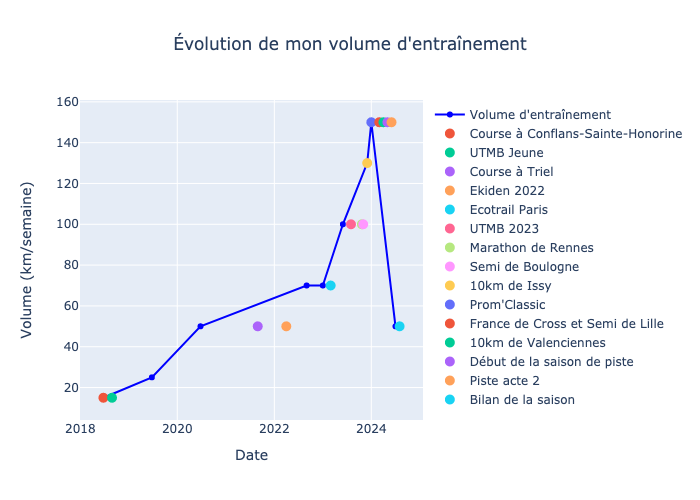
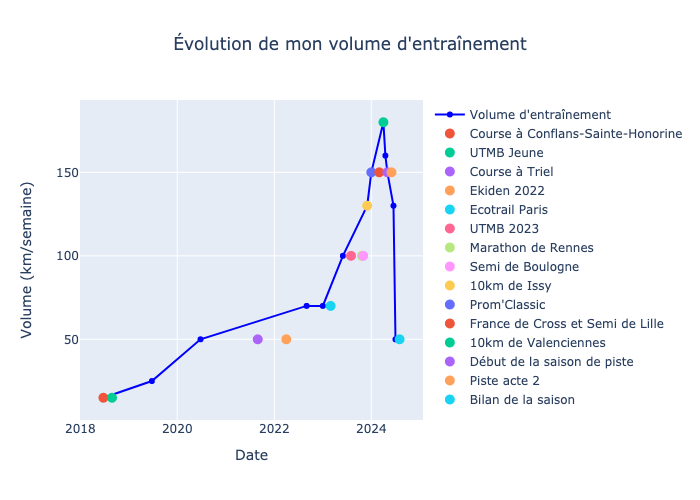
updates

diff --git a/perso/plot_run.py b/perso/plot_run.py
@@ -83,7 +83,6 @@ events = [
 # Créer le DataFrame des événements
 events_df = pd.DataFrame(events)
 
-# Données de volume d'entraînement hebdomadaire
 training_volume = [
     {'Start Date': '2018-06-24', 'End Date': '2019-06-23', 'Volume (km/week)': 15},
     {'Start Date': '2019-06-24', 'End Date': '2020-06-23', 'Volume (km/week)': 25},
@@ -93,6 +92,10 @@ training_volume = [
     {'Start Date': '2023-06-01', 'End Date': '2023-11-30', 'Volume (km/week)': 100},
     {'Start Date': '2023-12-01', 'End Date': '2023-12-31', 'Volume (km/week)': 130},
     {'Start Date': '2024-01-01', 'End Date': '2024-03-31', 'Volume (km/week)': 150},
+    {'Start Date': '2024-04-01', 'End Date': '2024-04-15', 'Volume (km/week)': 180},
+    {'Start Date': '2024-04-16', 'End Date': '2024-04-30', 'Volume (km/week)': 160},
+    {'Start Date': '2024-05-01', 'End Date': '2024-06-15', 'Volume (km/week)': 150},
+    {'Start Date': '2024-06-16', 'End Date': '2024-06-30', 'Volume (km/week)': 130},
     {'Start Date': '2024-07-01', 'End Date': '2024-08-31', 'Volume (km/week)': 50},
 ]
 
@@ -107,6 +110,7 @@ events_df['Date'] = pd.to_datetime(events_df['Date'])
 # Créer le graphique de volume d'entraînement
 fig1 = go.Figure()
 
+# Ajout du volume d'entraînement
 fig1.add_trace(go.Scatter(
     x=training_df['Start Date'],
     y=training_df['Volume (km/week)'],
@@ -115,6 +119,7 @@ fig1.add_trace(go.Scatter(
     line=dict(color='blue')
 ))
 
+# Ajout des événements
 for _, event in events_df.iterrows():
     fig1.add_trace(go.Scatter(
         x=[event['Date']],
@@ -134,7 +139,7 @@ fig1.update_layout(
     height=500
 )
 
-# Créer le tableau pour les descriptions des événements
+"""# Créer le tableau pour les descriptions des événements
 fig2 = go.Figure(data=[go.Table(
     header=dict(values=['Description']),
     cells=dict(values=[
@@ -147,10 +152,10 @@ fig2 = go.Figure(data=[go.Table(
 fig2.update_layout(
     title='Descriptions des Événements',
     height=1200,
-)
+)"""
 
 # Sauvegarder les graphiques en PNG
 fig1.write_image("/Users/augustincablant/Documents/GitHub/coach/training_volume.png")
-fig2.write_image("/Users/augustincablant/Documents/GitHub/coach/events_table.png")
+#fig2.write_image("/Users/augustincablant/Documents/GitHub/coach/events_table.png")
 
 #pio.write_image(fig, '/Users/augustincablant/Documents/GitHub/coach/evolution.png', format='png')
